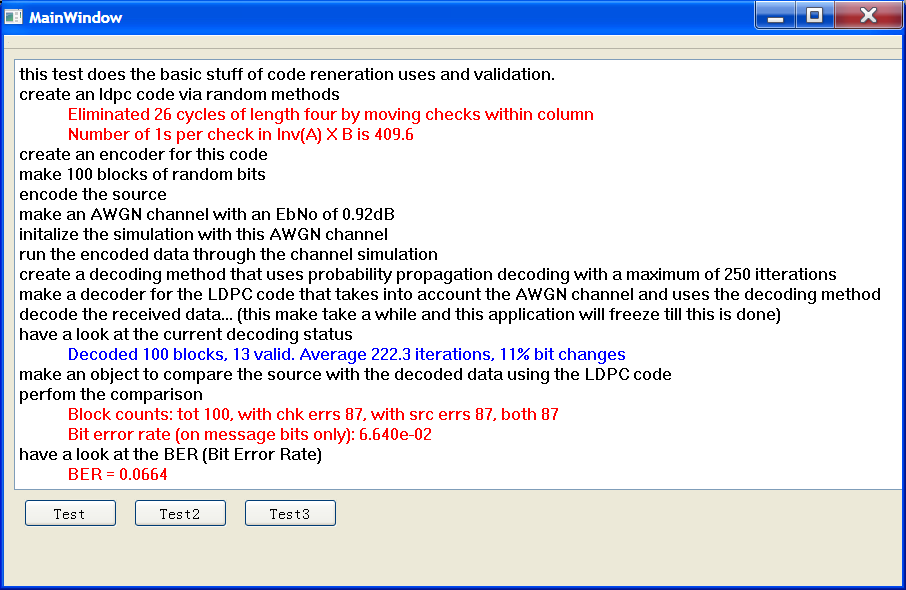
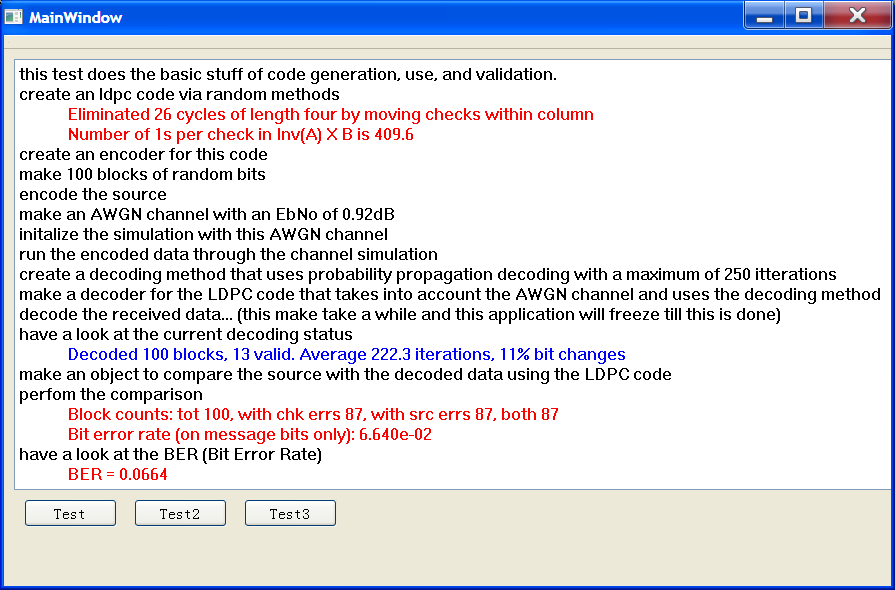
Screenshot

diff --git a/Demo/mainwindow.cpp b/Demo/mainwindow.cpp
@@ -14,7 +14,7 @@ void MainWindow::on_pushTest_clicked()
 {
 
     ui->plainTextEdit->clear();
-    message("this test does the basic stuff of code reneration uses and validation.");
+    message("this test does the basic stuff of code generation, use, and validation.");
 
     //------------------
     //  start the test
